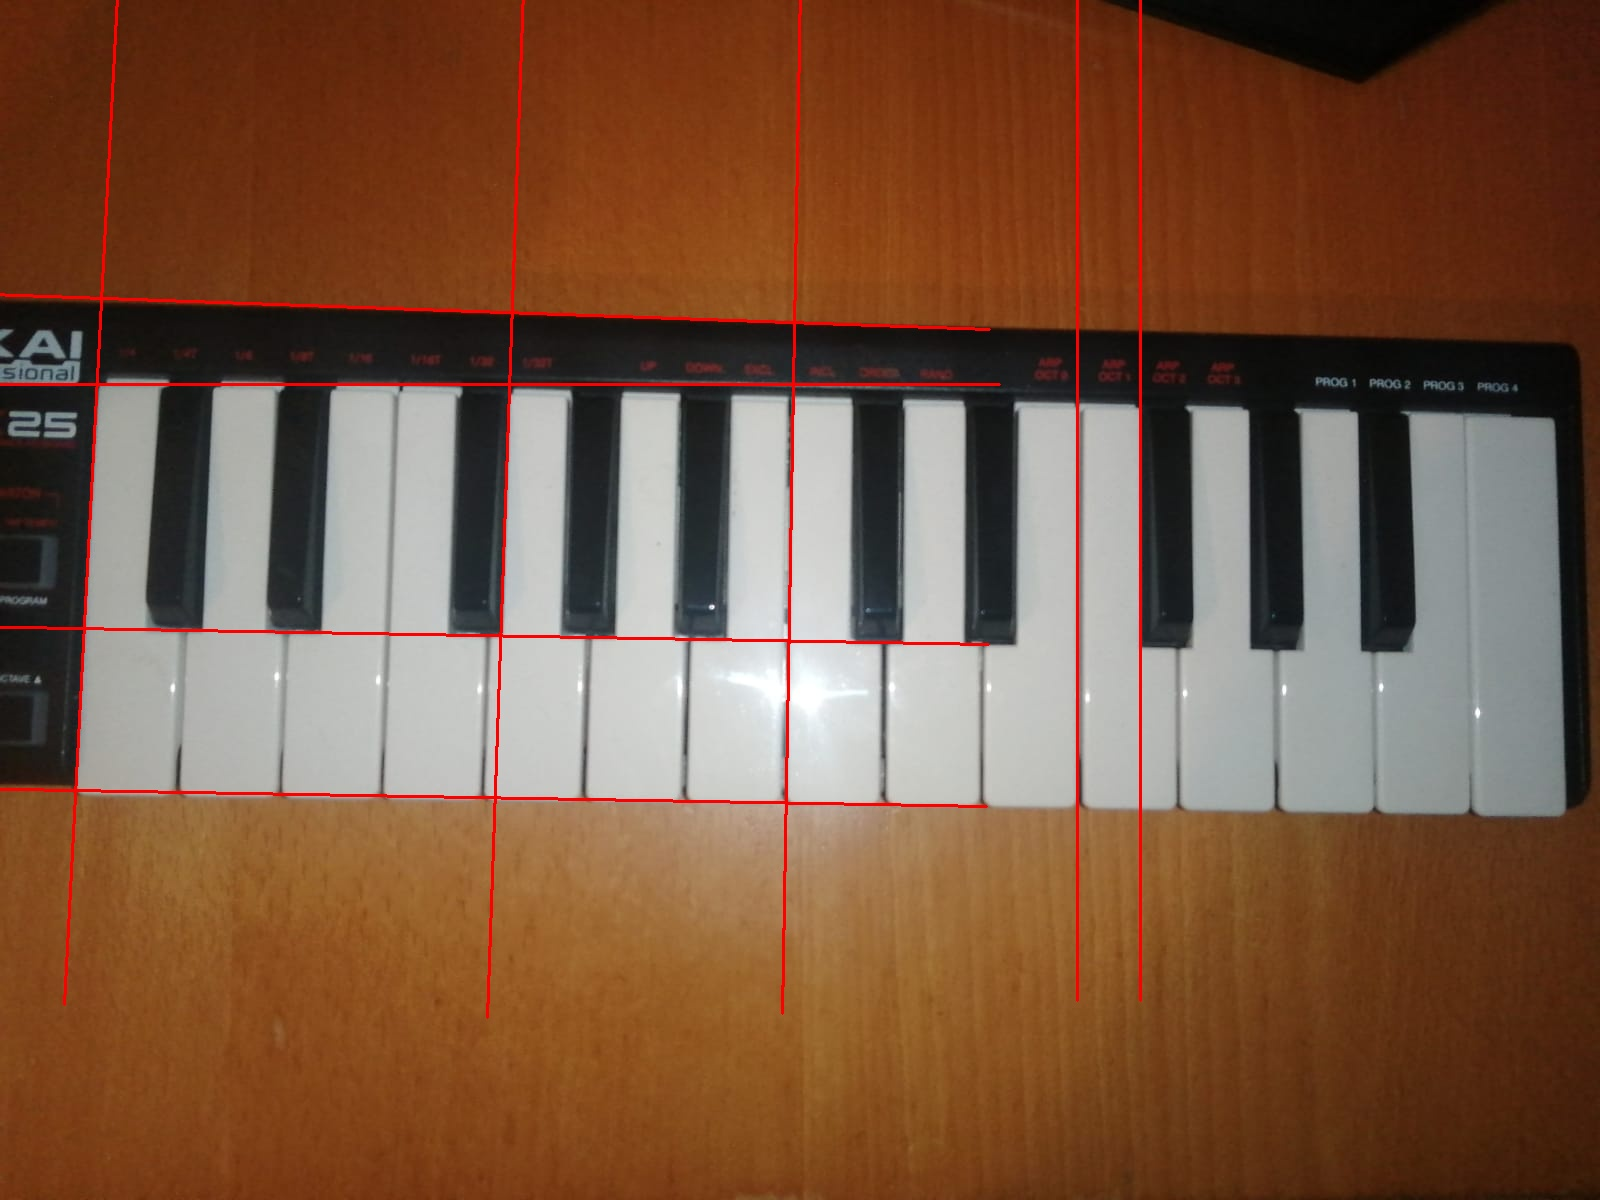
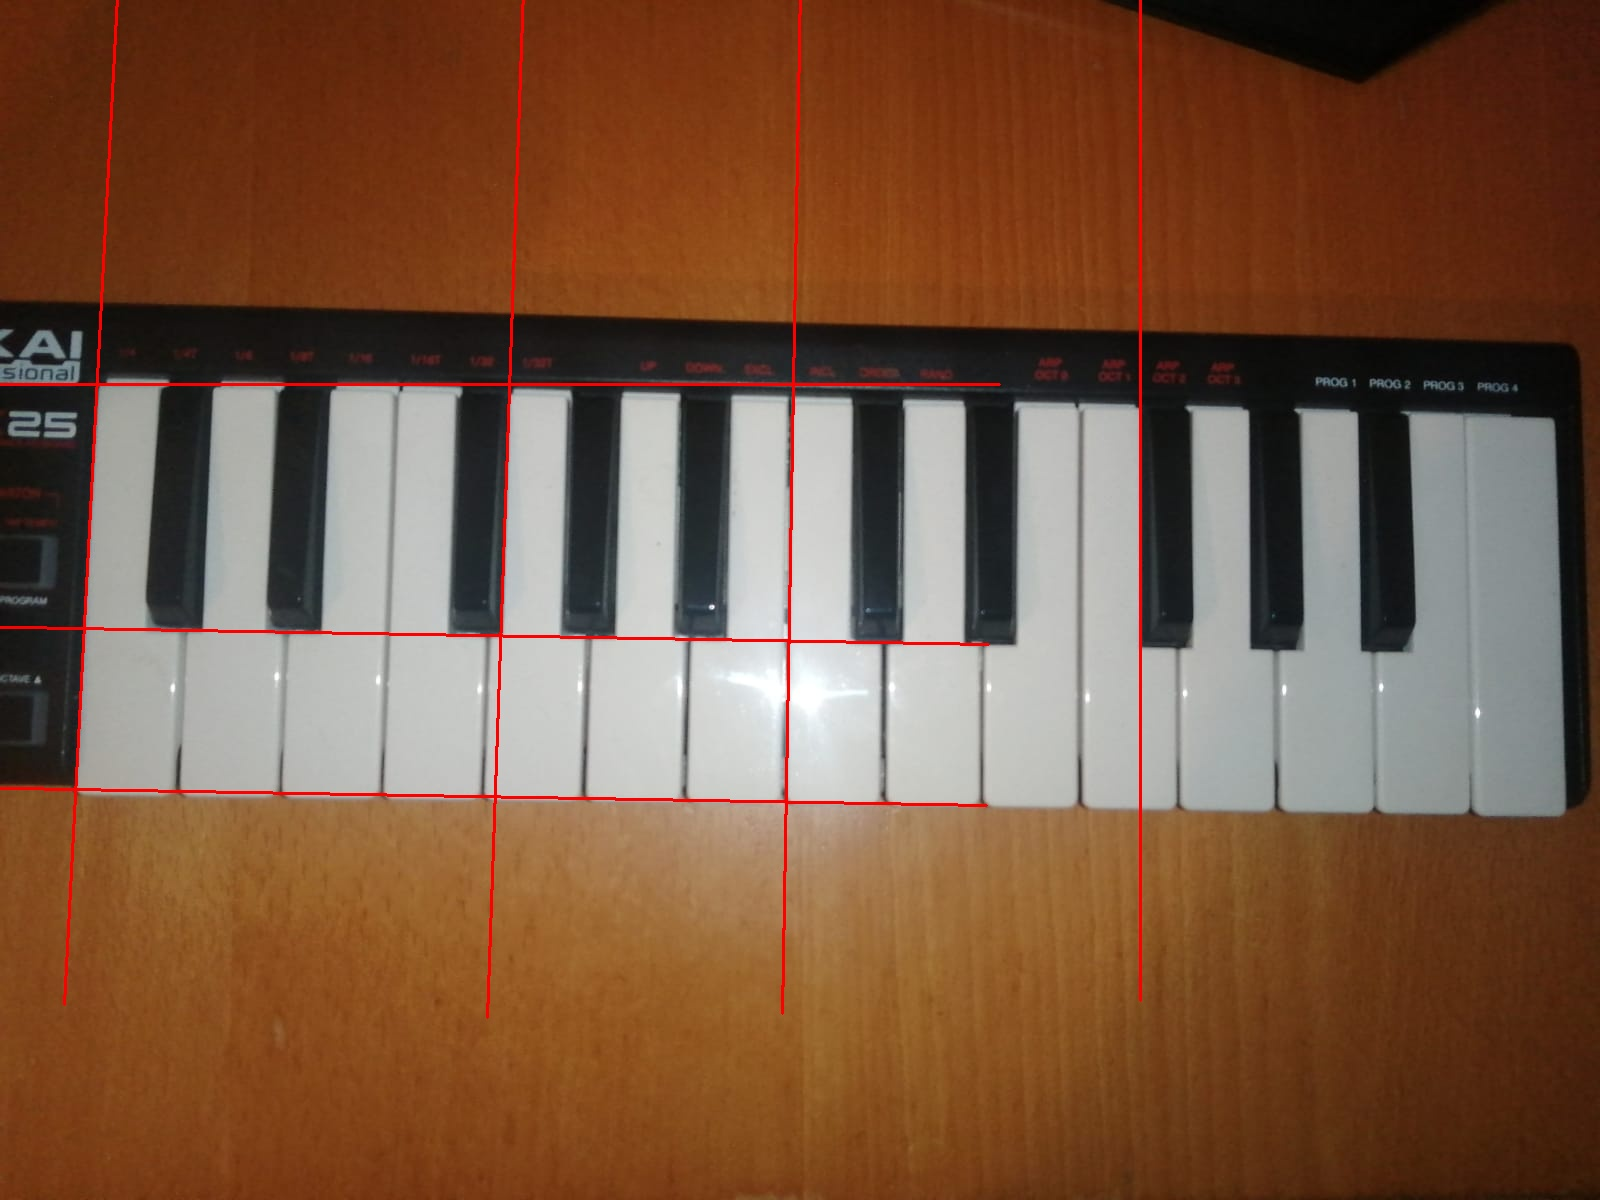
trying

Changed region(s): [[0.0312, 0.2467, 0.625, 0.2775], [0.0, 0.6475, 0.5938, 0.6783], [0.6562, 0.3083, 0.6875, 0.37]]

diff --git a/exp/lineDetection.py b/exp/lineDetection.py
@@ -1,23 +1,12 @@
 import cv2
 import numpy as np
 
-def remove_color(img):
-    new_img = img.copy()
-    new_img[np.where((new_img < [50,50,50]).all(axis=2))] = [0,0,0]
-    return new_img
 
 img = cv2.imread('img/akai2.jpeg')
 img_gray = cv2.cvtColor(img,cv2.COLOR_BGR2GRAY)
-img_gray = cv2.cvtColor(img_gray,cv2.COLOR_GRAY2BGR)
-black = remove_color(img_gray)
-cv2.imwrite('img/lineDetection/black.jpg',black)
+img_blur = cv2.GaussianBlur(img_gray,(3,3), sigmaX=0, sigmaY=0)
 
-
-img_blur = cv2.GaussianBlur(img,(3,3), sigmaX=0, sigmaY=0)
-
-cv2.imwrite('img/lineDetection/gray.jpg',img_gray)
-
-edges = cv2.Canny(image=img_blur, threshold1=100, threshold2=200) 
+edges = cv2.Canny(img_blur, 100, 200) 
 sobel = cv2.Sobel(src=img_blur, ddepth=cv2.CV_64F, dx=1, dy=1, ksize=5)
 cv2.imwrite('img/lineDetection/sobel.jpg',sobel)
 cv2.imwrite('img/lineDetection/canny.jpg',edges)
